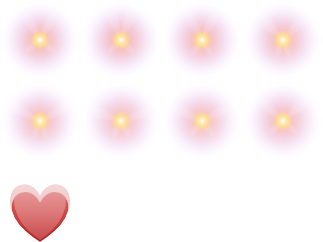
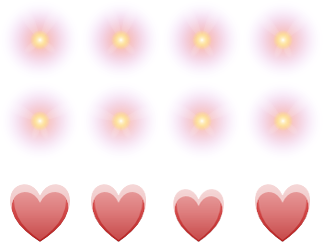
Heart_static V1

Changed region(s): [[0.2786, 0.7521, 0.4644, 1.0], [0.774, 0.7521, 0.9598, 1.0], [0.5263, 0.781, 0.7121, 1.0]]

diff --git a/SPW/Player.cpp b/SPW/Player.cpp
@@ -7,7 +7,7 @@
 
 Player::Player(Scene &scene) :
     GameBody(scene, Layer::PLAYER), m_animator(),
-    m_jump(false), m_facingRight(true), m_bounce(false), m_hDirection(0.0f),
+    m_jump(false), m_facingRight(true), m_bounce(false), m_hDirection(0.0f), m_zDirection(0.0f),
     m_lifeCount(3), m_heartCount(3), m_fireflyCount(0), m_state(Player::State::IDLE),
     m_speed(5.0f), m_stateSwitchRunning(false), m_stateRunning(false), m_animSpeedValue(0.8f),
     m_timerDead(0.0f)
@@ -111,6 +111,7 @@ void Player::Update()
 	// DID : Mettre à jour l'état du joueur en fonction des contrôles de jump
 
     m_hDirection = controls.hAxis;
+    m_zDirection = controls.goDownDown;
 
     m_jump = controls.jumpPressed;
     m_jumpHold = controls.jumpDown;
@@ -176,7 +177,8 @@ void Player::FixedUpdate()
     //}
     if (m_statePlayer == State_Player::DYING)
     {
-        body->SetVelocity(PE_Vec2(0.0f, 17.0f));
+        body->ApplyForce(PE_Vec2(5.0f, 17.0f));
+        body->SetVelocity(PE_Vec2(5.0f, 17.0f));
         m_animator.PlayAnimation("Dying");
         m_statePlayer = State_Player::DEAD;
     }
@@ -266,16 +268,32 @@ void Player::FixedUpdate()
             m_animator.PlayAnimation("Falling");
         }
     }
+    //--------------------------------------------------------------------------
+
 
     
-    
-    //TODO
+    // DID
     // Orientation du joueur
     // Utilisez m_hDirection qui vaut :
     // *  0.0f si le joueur n'accélère pas ;
     // * +1.0f si le joueur accélère vers la droite ;
     // * -1.0f si le joueur accélère vers la gauche.
 
+    // Utilisez m_zDirection qui vaut :
+    // *  0.0f si le joueur ne descend pas ;
+    // * -1.0f si le joueur descend
+
+    /*
+    if (m_zDirection > 0.0f)
+    {
+        // TODO
+        
+        j'aimerais touché la taille du collider mais je sais pas à quel point c'est gravissime
+        donc j'attends de voir demain avec les profs
+        
+    }
+    else */
+        //collider de taille normal
 
     m_timerSpeed += m_scene.GetFixedTimeStep();
 
@@ -506,10 +524,7 @@ void Player::OnCollisionStay(GameCollision &collision)
         return;
     }
     else
-    {
         collision.SetEnabled(true);
-        return;
-    }
 
 
     if (otherCollider->CheckCategory(CATEGORY_COLLECTABLE))
@@ -540,7 +555,7 @@ void Player::AddFirefly(int count)
 {
     m_fireflyCount += count;
     if (m_fireflyCount >= 30)
-        AddLife(1);
+        AddHeart(1);
 }
 
 void Player::AddLife(int count)
@@ -550,7 +565,18 @@ void Player::AddLife(int count)
 
 void Player::AddHeart(int count)
 {
-    m_heartCount += count;
+    if (m_heartCount >= 5)
+    {
+        AddLife(1);
+        m_heartCount = 3;
+    }
+    else
+        m_heartCount += count;
+
+    printf("_____________\n"
+        "%d vies restantes\n"
+        "%d pv restants\n"
+        "_____________\n\n", m_lifeCount, m_heartCount);
 }
 
 void Player::Damage(int count)

diff --git a/SPW/Heart.h b/SPW/Heart.h
@@ -1,18 +1,28 @@
 #pragma once
 
+#include "Collectable.h"
 #include "Settings.h"
 #include "Collectable.h"
 
 class Heart : public Collectable
 {
 public:
-    Heart(Scene &scene);
+    Heart(Scene &scene, Layer layer);
 
     virtual void Start() override;
     virtual void Render() override;
     virtual void OnRespawn() override;
-    virtual void Update() override;
 
-    virtual void OnCollisionEnter(GameCollision &collision) override;
     virtual void Collect(GameBody *collector) override;
+
+private:
+    RE_Animator m_animator;
+
+    RE_Anchor m_currentAnimation;
+
+    enum class State
+    {
+        IDLE, PICKED
+    };
+    State m_state;
 };

diff --git a/SPW/Firefly.h b/SPW/Firefly.h
@@ -22,9 +22,6 @@ private:
 
     RE_Anchor m_currentAnimation;
 
-    RE_Timer timerFirefly;
-    float timeDelta;
-
     enum class State
     {
         IDLE, PICKED

diff --git a/SPW/Player.h b/SPW/Player.h
@@ -53,6 +53,7 @@ private:
     RE_Animator m_animator;
 
     float m_hDirection;
+    float m_zDirection;
 
     float m_speed;
     float m_timerSpeed;

diff --git a/SPW/Main.cpp b/SPW/Main.cpp
@@ -3,7 +3,7 @@
 #include "TitleScene.h"
 
 //#define FHD
-//#define FULLSCREEN
+#define FULLSCREEN
 //#define SKIP_MENU
 //#define DEFAUT_LEVEL 3
 
